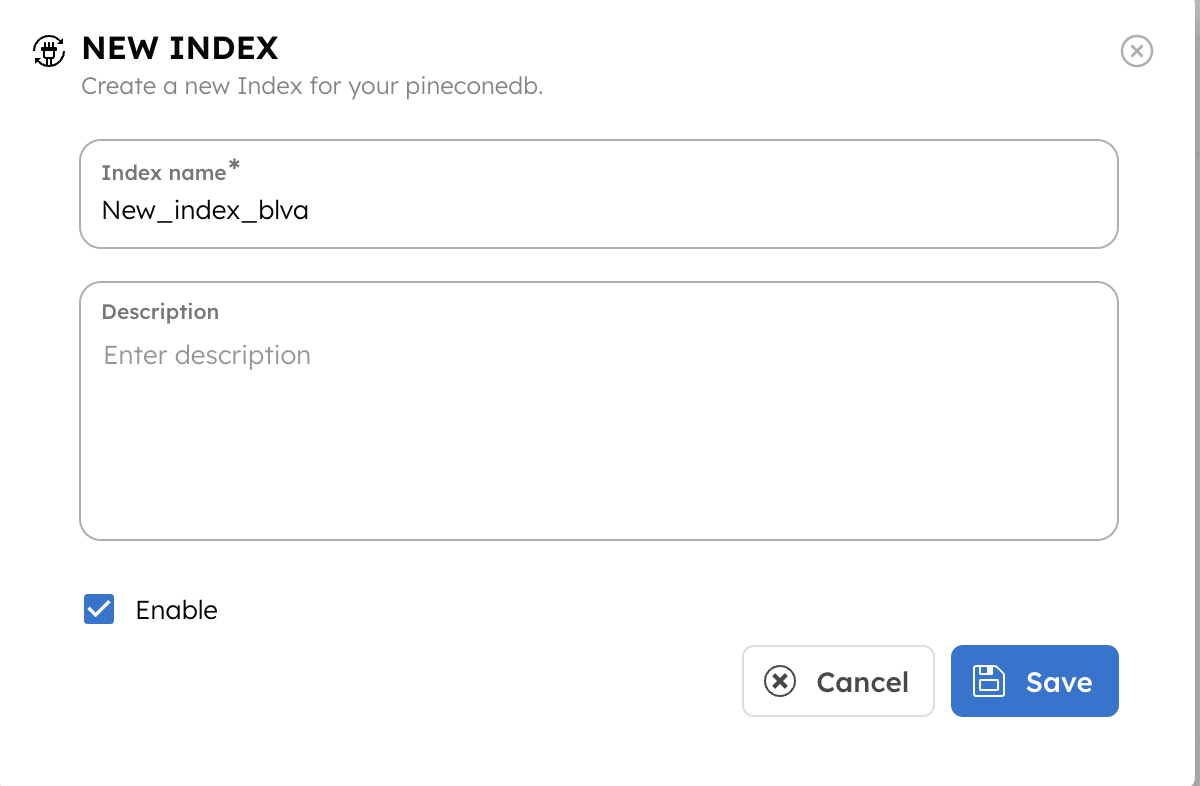
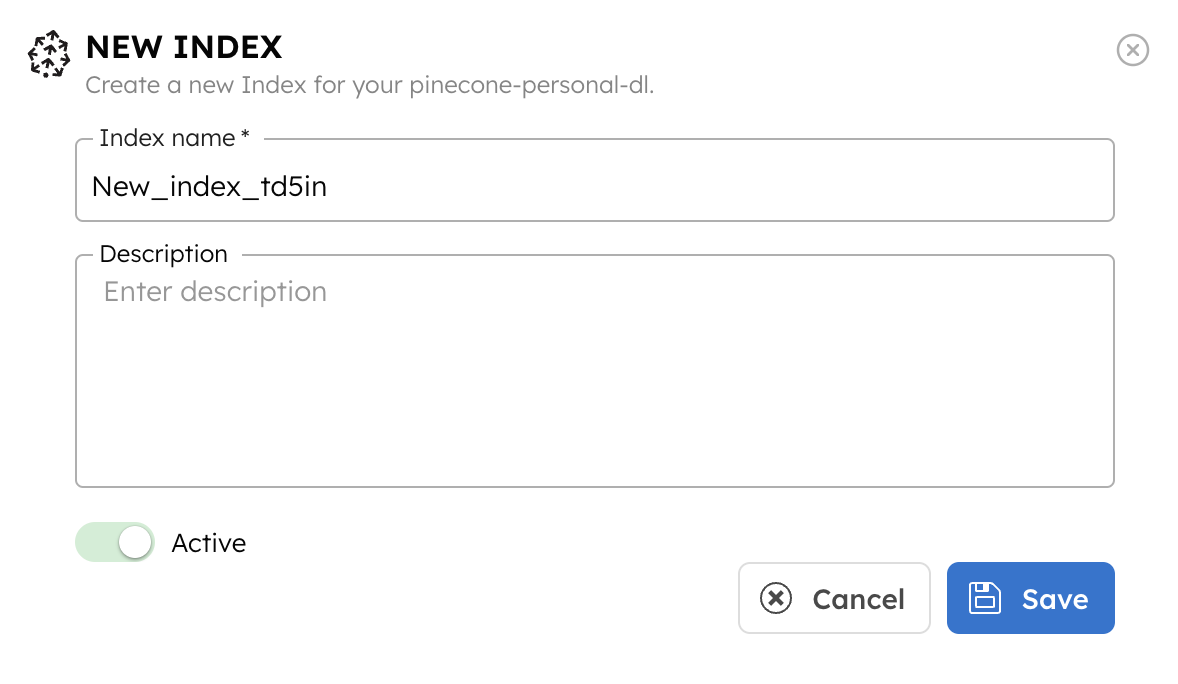
pinecone doc updates

diff --git a/docs/integrations/vector-databases/pinecone.md b/docs/integrations/vector-databases/pinecone.md
@@ -8,25 +8,25 @@ This guide will provide the steps for integrating Pinecone with Orkes Conductor.
 
 ## Steps to integrate with Pinecone Database
 
-Before beginning to integrate with Pinecone, you need to generate the API key.
+Before beginning to integrate with Pinecone, you need to get specific configuration parameters from the Pinecone console.
 
-### Get the Pinecone API key
+### Get Configuration Credentials from Pinecone
 
 1. Navigate to the [Pinecone console](https://app.pinecone.io/).
-2. Create an account or sign up with your existing account.
-3. From the left menu, navigate to **API Keys**.
-4. Click **+Create API Key.**
+2. Create a project and note the project ID generated. 
+
+<p align="center"><img src="/content/img/project-name.png" alt="Getting Project ID from Pinecone console" width="50%" height="auto"></img></p>
+
+3. Navigate to **API Keys** and click **+ Create API Key**. 
 
 <p align="center"><img src="/content/img/create-api-key-from-pinecone-db.png" alt="API Key creation from Pinecone Console" width="100%" height="auto"></img></p>
 
-5. Provide a name for the key and click **Create Key**.
-6. Note your environment name and project name for the API key generated. 
+4. Provide a name for the key and click **Create Key**. Copy the API key generated.
+5. Next, from **Indexes** on the left menu, create a new index and note the environment.
 
-Note and keep your API key and environment name.
+<p align="center"><img src="/content/img/get-environment-name.png" alt="Get environment name from Pinecone console" width="100%" height="auto"></img></p>
 
-## Create Indexes within your Pinecone project
-
-Check out the [official documentation to create indexes within your Pinecone project](https://docs.pinecone.io/docs/manage-indexes#creating-an-index).
+Check out Pinecone's [official documentation](https://docs.pinecone.io/docs/overview) for more details.
 
 ## Integrating with Pinecone as a provider
 
@@ -42,9 +42,9 @@ Now, you have the API key. Let’s integrate this with Orkes Conductor.
 | Parameters | Description |
 | ---------- | ----------- | 
 | Integration name | Provide a name for the integration. |
-| API Key | Provide the API key copied previously. |
-| Environment | Provide the environment for the API key copied. |
-| Project Name | Provide the project name. |
+| API Key | Provide the [API key copied previously](/content/integrations/vector-databases/pinecone#get-configuration-credentials-from-pinecone). |
+| Project Name | Provide the [project ID copied previously](/content/integrations/vector-databases/pinecone#get-configuration-credentials-from-pinecone). |
+| Environment | Provide the environment name. Refer to the previous section on [how to get the environment name](/content/integrations/vector-databases/pinecone#get-configuration-credentials-from-pinecone). |
 | Description | Provide a description of your integration. |
 
 5. You can toggle-on the **Active** button to activate the integration instantly.
@@ -65,7 +65,7 @@ To add a new index to the Pinecone integration:
 
 <p align="center"><img src="/content/img/create-new-pinecone-integration-index-model.png" alt="Create Indexes for Pinecone Integration Model" width="60%" height="auto"></img></p>
 
-4. Click the **Enable** checkbox to enable the model immediately.
+4. Turn on the **Active** button to enable the model immediately.
 5. Click **Save**.
 
 This ensures the integration model is saved for future use in LLM tasks within Orkes Conductor.
